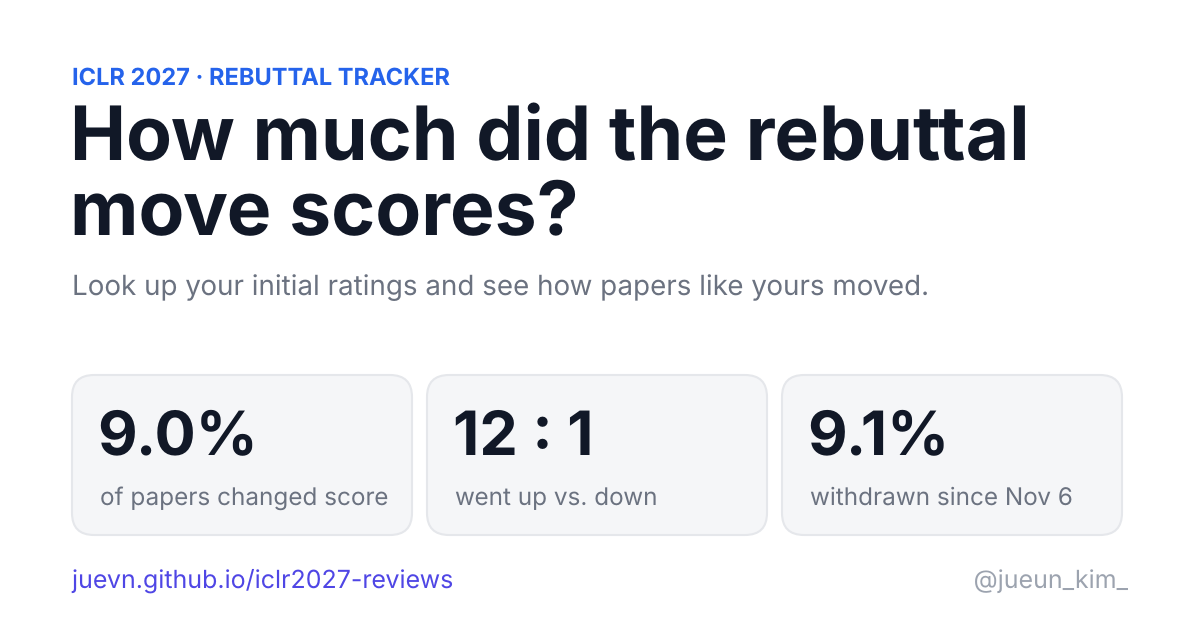
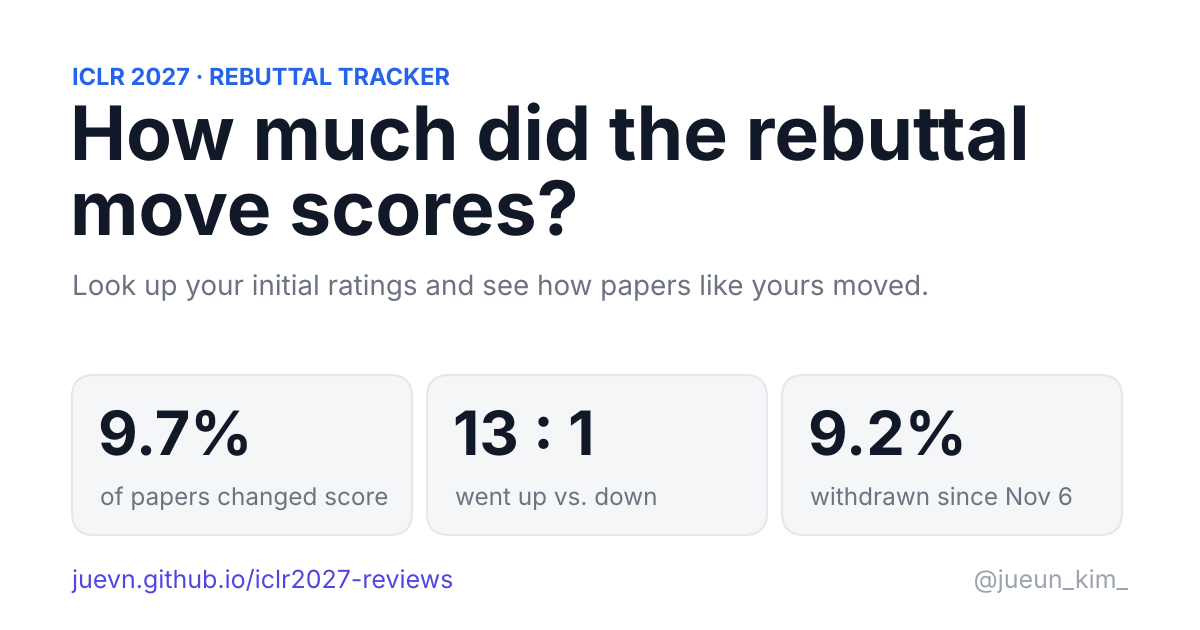
Update to Nov 16 14:59 UTC
Claude-Session: https://claude.ai/code/session_01TcxDZfia7MrzcEvY8LDLi9

diff --git a/data.js b/data.js
@@ -5,39 +5,40 @@ window.ICLR_DATA = {
   venue: "ICLR 2027",
   scale: [1,4],
   baseline: {"at":"2026-11-06T13:54:47Z","source":"https://shiqiangw.github.io/iclr-2027-scores/","by":"shiqiangw"},
-  updated: "2026-11-16T12:26:30Z",
+  updated: "2026-11-16T14:59:02Z",
   discussionEnds: "2026-11-18",
   decisions: "2026-12-16",
   combos: {
-    "1":[2,0,0,0,0,0,0,0],"2":[2,0,0,0,0,0,0,0],"11":[27,9,0,13,0,0,0,0],"21":[73,11,0,34,0,0,0,0],"22":[104,1,0,65,2,0,0,2],"31":[24,0,0,13,0,0,0,0],
+    "1":[2,0,0,0,0,0,0,0],"2":[2,0,0,0,0,0,0,0],"11":[27,9,0,13,0,0,0,0],"21":[73,11,0,34,0,0,0,0],"22":[104,1,0,64,2,0,0,2],"31":[24,0,0,13,0,0,0,0],
     "32":[75,0,0,34,3,1,0,2],"33":[20,0,0,15,0,0,0,0],"41":[1,0,0,1,0,0,0,0],"42":[5,0,0,3,1,0,0,1],"43":[2,0,0,1,0,0,0,0],"44":[1,0,0,1,0,0,0,0],
-    "111":[764,204,0,557,2,0,0,2],"211":[3062,718,1,2331,51,11,0,49],"221":[6602,1312,4,5265,233,19,0,252],"222":[7463,673,1,6770,516,31,3,550],"311":[651,99,1,546,13,14,0,-2],"321":[3548,250,0,3287,281,34,2,294],
-    "322":[7667,70,2,7572,736,50,1,779],"331":[675,3,0,669,78,7,0,89],"332":[3733,5,1,3713,516,31,3,517],"333":[773,0,0,769,60,1,0,63],"411":[30,2,0,28,3,0,0,4],"421":[215,4,1,210,14,4,0,10],
-    "422":[418,0,0,418,48,11,0,43],"431":[79,0,0,77,5,0,0,8],"432":[515,1,0,513,75,4,0,75],"433":[198,0,0,195,13,0,0,14],"441":[6,0,0,6,2,0,0,3],"442":[40,0,0,39,11,0,1,14],
-    "443":[28,0,0,28,1,0,0,1],"444":[2,0,0,2,0,0,0,0],"1111":[29,4,1,24,0,0,0,0],"2111":[107,26,0,79,1,0,0,1],"2211":[245,54,0,191,5,1,0,5],"2221":[428,64,0,358,21,1,0,23],
-    "2222":[455,57,1,396,34,0,1,36],"3111":[17,3,0,14,0,0,0,0],"3211":[111,12,0,98,3,3,0,1],"3221":[336,25,0,311,27,2,0,35],"3222":[565,20,0,542,73,1,0,79],"3311":[28,3,0,25,1,0,1,1],
-    "3321":[133,1,0,132,19,0,0,22],"3322":[435,1,0,429,71,6,0,78],"3331":[27,0,0,27,4,2,0,2],"3332":[156,0,0,155,31,0,0,32],"3333":[17,0,0,17,0,1,0,-1],"4111":[1,0,0,1,0,0,0,0],
-    "4211":[8,0,0,8,0,0,0,0],"4221":[25,0,0,25,2,0,0,4],"4222":[40,0,0,40,6,0,0,7],"4311":[1,0,0,1,0,0,0,0],"4321":[28,0,0,28,0,1,0,-1],"4322":[51,0,0,51,9,1,0,9],
-    "4331":[8,0,0,8,1,0,0,1],"4332":[38,0,0,38,4,2,0,1],"4333":[7,0,0,7,0,0,0,0],"4421":[1,0,0,1,0,0,0,0],"4422":[3,0,0,3,1,0,0,1],"4431":[2,0,0,2,1,0,0,3],
-    "4432":[3,0,0,3,0,0,0,0],"4433":[4,0,0,4,0,0,0,0],"4443":[1,0,0,1,0,0,0,0],"11111":[4,1,0,3,0,0,0,0],"21111":[6,2,0,4,0,0,0,0],"22111":[14,3,0,11,0,0,0,0],
+    "111":[764,205,0,557,2,0,0,2],"211":[3062,729,1,2320,53,11,0,51],"221":[6602,1333,4,5244,252,20,0,273],"222":[7463,687,1,6756,548,31,4,590],"311":[651,102,1,543,14,15,0,-2],"321":[3548,257,0,3280,310,35,2,324],
+    "322":[7667,74,2,7568,800,52,1,846],"331":[675,3,0,669,83,7,0,95],"332":[3733,5,1,3713,549,33,3,552],"333":[773,0,0,769,64,1,0,68],"411":[30,2,0,28,3,0,0,4],"421":[215,4,1,210,20,6,0,13],
+    "422":[418,0,0,418,52,11,0,48],"431":[79,0,0,77,5,0,0,8],"432":[515,1,0,513,81,4,0,81],"433":[198,0,0,195,14,0,0,15],"441":[6,0,0,6,2,0,0,3],"442":[40,0,0,39,12,0,1,15],
+    "443":[28,0,0,28,1,0,0,1],"444":[2,0,0,2,0,0,0,0],"1111":[29,4,1,24,0,0,0,0],"2111":[107,26,0,79,1,0,0,1],"2211":[245,55,0,190,5,1,0,5],"2221":[428,67,0,355,22,1,0,24],
+    "2222":[455,57,1,396,38,0,1,40],"3111":[17,4,0,13,0,0,0,0],"3211":[111,12,0,98,4,3,0,2],"3221":[336,25,0,311,28,2,0,36],"3222":[565,20,0,542,79,1,0,87],"3311":[28,3,0,25,1,0,1,1],
+    "3321":[133,2,0,131,22,0,0,25],"3322":[435,1,0,428,76,6,0,84],"3331":[27,0,0,27,4,2,0,2],"3332":[156,0,0,155,33,0,0,34],"3333":[17,0,0,17,0,1,0,-1],"4111":[1,0,0,1,0,0,0,0],
+    "4211":[8,0,0,8,0,0,0,0],"4221":[25,0,0,25,2,0,0,4],"4222":[40,0,0,40,6,0,0,7],"4311":[1,0,0,1,0,0,0,0],"4321":[28,0,0,28,0,2,0,-3],"4322":[51,0,0,51,9,1,0,9],
+    "4331":[8,0,0,8,1,0,0,1],"4332":[38,0,0,38,5,2,0,2],"4333":[7,0,0,7,0,0,0,0],"4421":[1,0,0,1,0,0,0,0],"4422":[3,0,0,3,1,0,0,1],"4431":[2,0,0,2,1,0,0,3],
+    "4432":[3,0,0,3,0,0,0,0],"4433":[4,0,0,4,0,0,0,0],"4443":[1,0,0,1,0,0,0,0],"11111":[4,1,0,3,0,0,0,0],"21111":[6,2,0,4,0,0,0,0],"22111":[14,4,0,10,0,0,0,0],
     "22211":[22,4,0,18,0,0,0,0],"22221":[32,6,0,26,1,0,0,2],"22222":[19,2,0,17,1,0,1,1],"32111":[8,2,0,6,1,0,0,1],"32211":[21,4,0,17,2,3,0,0],"32221":[29,9,0,20,2,0,0,2],
-    "32222":[37,2,0,35,3,0,0,3],"33211":[2,0,0,2,0,0,0,0],"33221":[27,0,0,27,6,0,0,10],"33222":[46,1,0,45,12,1,0,12],"33311":[2,0,0,2,0,0,0,0],"33321":[4,0,0,4,1,0,0,1],
+    "32222":[37,2,0,35,4,0,0,4],"33211":[2,0,0,2,0,0,0,0],"33221":[27,0,0,27,6,0,0,10],"33222":[46,1,0,45,12,1,0,12],"33311":[2,0,0,2,0,0,0,0],"33321":[4,0,0,4,1,0,0,1],
     "33322":[14,0,0,14,4,0,0,5],"33331":[2,0,0,2,0,0,0,0],"33332":[7,0,0,7,2,0,0,3],"33333":[2,0,0,2,0,0,0,0],"42221":[3,0,0,3,0,0,0,0],"42222":[1,0,0,1,0,0,0,0],
     "43211":[1,0,0,1,0,0,0,0],"43221":[1,0,0,1,0,0,0,0],"43222":[7,0,0,7,1,0,0,1],"43322":[2,0,0,2,1,0,0,1],"43331":[1,0,0,1,0,0,0,0],"43332":[4,0,0,4,1,0,0,1],
-    "43333":[1,0,0,1,0,0,0,0],"44311":[1,0,0,1,0,0,0,0],"44322":[3,0,0,3,0,0,0,0],"44332":[3,0,0,3,1,0,0,1],"211111":[1,0,0,1,0,0,0,0],"221111":[1,0,0,1,0,0,0,0],
+    "43333":[1,0,0,1,0,0,0,0],"44311":[1,0,0,1,0,0,0,0],"44322":[3,0,0,3,0,0,0,0],"44332":[3,0,0,3,1,0,0,1],"211111":[1,1,0,0,0,0,0,0],"221111":[1,0,0,1,0,0,0,0],
     "222211":[2,1,0,1,0,0,0,0],"222221":[2,1,0,1,0,0,0,0],"322211":[1,0,0,1,0,0,0,0],"322221":[1,0,0,1,0,0,0,0],"322222":[3,0,0,3,0,0,0,0],"332222":[2,0,0,2,0,1,0,-1],
-    "333222":[1,0,0,1,0,0,0,0],"432211":[1,0,0,1,0,0,0,0],"433321":[1,0,0,1,0,0,0,0],"2222211":[1,0,0,1,0,0,0,0]
+    "333222":[1,0,0,1,0,0,0,0],"432211":[1,0,0,1,1,0,0,1],"433321":[1,0,0,1,0,0,0,0],"2222211":[1,0,0,1,0,0,0,0]
   },
   // Mean rating now -> number of papers still under review, for ranking a score against today's field.
-  currentMeans: {"n":36900,"h":{"1.00":615,"1.17":1,"1.20":5,"1.25":84,"1.33":2323,"1.40":11,"1.50":252,"1.60":29,"1.67":5686,"1.71":1,"1.75":459,"1.80":43,"1.83":2,"2.00":10402,"2.17":5,"2.20":67,"2.25":692,"2.33":8396,"2.40":48,"2.50":586,"2.60":33,"2.67":4454,"2.75":261,"2.80":14,"3.00":1942,"3.20":6,"3.25":20,"3.33":384,"3.40":1,"3.50":6,"3.67":62,"3.75":2,"4.00":8}},
+  currentMeans: {"n":36831,"h":{"1.00":615,"1.20":5,"1.25":84,"1.33":2312,"1.40":10,"1.50":250,"1.60":29,"1.67":5644,"1.71":1,"1.75":454,"1.80":42,"1.83":2,"2.00":10337,"2.17":4,"2.20":66,"2.25":688,"2.33":8370,"2.40":49,"2.50":586,"2.60":34,"2.67":4491,"2.75":265,"2.80":14,"3.00":1973,"3.20":6,"3.25":21,"3.33":397,"3.40":1,"3.50":6,"3.67":65,"3.75":2,"4.00":8}},
   // Review-level moves. exact: the pairing of Nov 6 and current ratings is unique.
   // inferred: more than one pairing fits, smallest-change one used.
-  reviews: {"analyzed":112962,"modified":12726,"changed":3483,"exact":3262,"inferred":221,"initial":{"1":19253,"2":64926,"3":26910,"4":1873},"moves":{"2>3":2239,"1>2":401,"3>4":377,"2>1":134,"2>4":111,"3>2":105,"1>3":88,"4>3":12,"3>1":8,"1>4":4,"4>2":4}},
+  reviews: {"analyzed":112741,"modified":13160,"changed":3748,"exact":3506,"inferred":242,"initial":{"1":19180,"2":64797,"3":26891,"4":1873},"moves":{"2>3":2425,"1>2":439,"3>4":398,"2>1":139,"2>4":117,"3>2":108,"1>3":91,"4>3":12,"3>1":9,"4>2":6,"1>4":4}},
   // One row per update: papers still active with the same number of reviews, and how many moved.
   timeline: [
     {"at":"2026-11-06T13:54:47Z","sc":40458,"up":0,"down":0,"mixed":0,"withdrawn":0},
     {"at":"2026-11-16T06:21:22Z","sc":36671,"up":2436,"down":225,"mixed":12,"withdrawn":3498},
     {"at":"2026-11-16T07:22:44Z","sc":36628,"up":2540,"down":228,"mixed":12,"withdrawn":3541},
-    {"at":"2026-11-16T12:26:30Z","sc":36499,"up":3017,"down":244,"mixed":13,"withdrawn":3670}
+    {"at":"2026-11-16T12:26:30Z","sc":36499,"up":3017,"down":244,"mixed":13,"withdrawn":3670},
+    {"at":"2026-11-16T14:59:02Z","sc":36429,"up":3250,"down":254,"mixed":14,"withdrawn":3739}
   ]
 };

diff --git a/README.md b/README.md
@@ -38,7 +38,7 @@ How much did the ICLR 2027 rebuttal move review scores? Every paper's ratings on
 - **Initial ratings.** The Nov 6, 13:54 UTC snapshot published at [shiqiangw.github.io/iclr-2027-scores](https://shiqiangw.github.io/iclr-2027-scores/) ([repo](https://github.com/shiqiangw/iclr-2027-scores)), about a day after reviews were released.
 - **Current ratings.** The OpenReview API: every ICLR 2027 submission with its official reviews.
 - **Score changes.** A paper's ratings now against its Nov 6 ratings. Only papers still under review with the same number of reviews are counted.
-- **Review-level moves.** Reviews not edited since the snapshot keep their Nov 6 rating, which pins down the rest. When several reviews on one paper were edited and more than one pairing fits, edits that kept the rating count as text-only and the rest are paired by smallest change. This applies to 221 of 3,483 changed reviews (6%, as of Nov 16); the other 94% are pinned down exactly.
+- **Review-level moves.** Reviews not edited since the snapshot keep their Nov 6 rating, which pins down the rest. When several reviews on one paper were edited and more than one pairing fits, edits that kept the rating count as text-only and the rest are paired by smallest change. This applies to 242 of 3,748 changed reviews (6%, as of Nov 16); the other 94% are pinned down exactly.
 - **Privacy.** Only counts are published. No review text, reviewer ids, paper titles or author names.
 
 Made by [Jueun Kim](https://juevn.github.io/) ([@jueun_kim_](https://x.com/jueun_kim_)). Also: [NeurIPS 2026 Explorer](https://juevn.github.io/neurips2026/).
